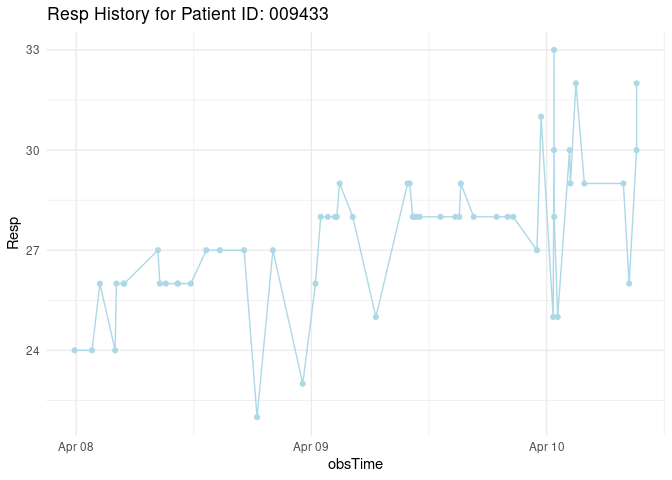
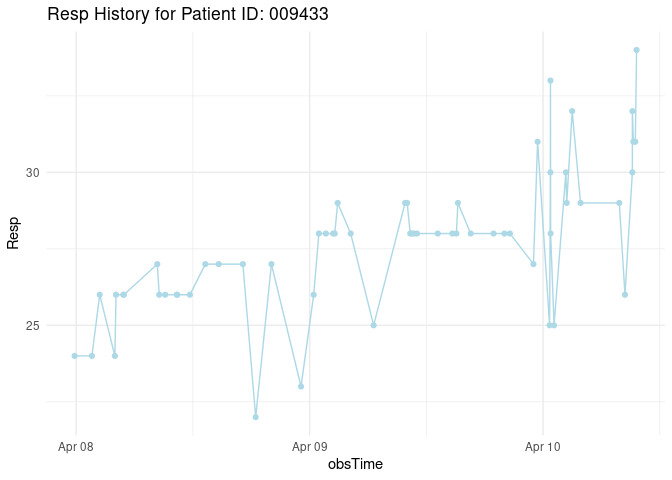
Updated report

diff --git a/sepsis_v2.md b/sepsis_v2.md
@@ -10,7 +10,7 @@ Sepsis Assignment
 
 #### The date and time of the report
 
-    Hello! The last time the report was run: 2023-04-10 09:14:14
+    Hello! The last time the report was run: 2023-04-10 10:15:15
 
 #### Recent heart rate, temperature, and respiratory rate for patients who currently have sepsis
 
@@ -28,11 +28,11 @@ table1
 }
 ```
 
-| Patient_ID | Heart_Rate | Temp | Respiration | Obs_time            |
-|:-----------|-----------:|-----:|------------:|:--------------------|
-| 000714     |         84 |   NA |          19 | 2023-04-08 17:48:46 |
-| 001948     |         84 |   NA |          25 | 2023-04-08 22:43:12 |
-| 009433     |         89 |   NA |          32 | 2023-04-10 09:11:03 |
+| Patient_ID | Heart_Rate |  Temp | Respiration | Obs_time            |
+|:-----------|-----------:|------:|------------:|:--------------------|
+| 000714     |         84 |    NA |          19 | 2023-04-08 17:48:46 |
+| 001948     |         84 |    NA |          25 | 2023-04-08 22:43:12 |
+| 009433     |         94 | 38.44 |          34 | 2023-04-10 09:36:59 |
 
 #### Plots for all patients who have sepsis that show the complete history of their heart rate, temperature, and respiratory rate during their time in the ICU.
 
@@ -216,7 +216,7 @@ mutate(prev_HR = lag(HR, order_by = obsTime),
 | 009312    |        NA |          NA |          NA |
 | 009429    |        NA |          NA |           2 |
 | 009429    |        NA |          NA |          NA |
-| 009433    |        -2 |          NA |           2 |
+| 009433    |         6 |          NA |           3 |
 | 009433    |        NA |          NA |          NA |
 | 009454    |        -3 |          NA |          -9 |
 | 009454    |        NA |          NA |          NA |
